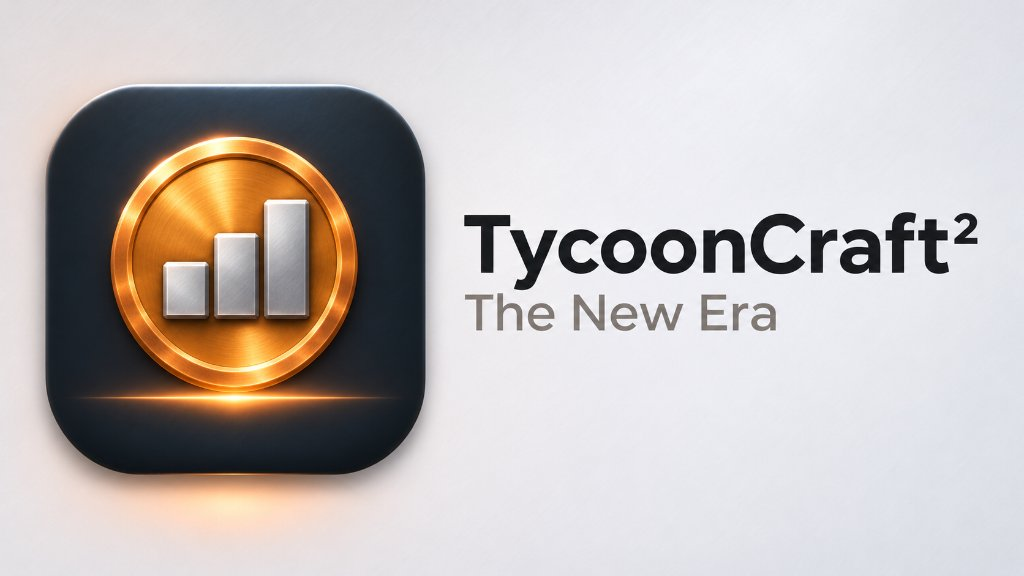
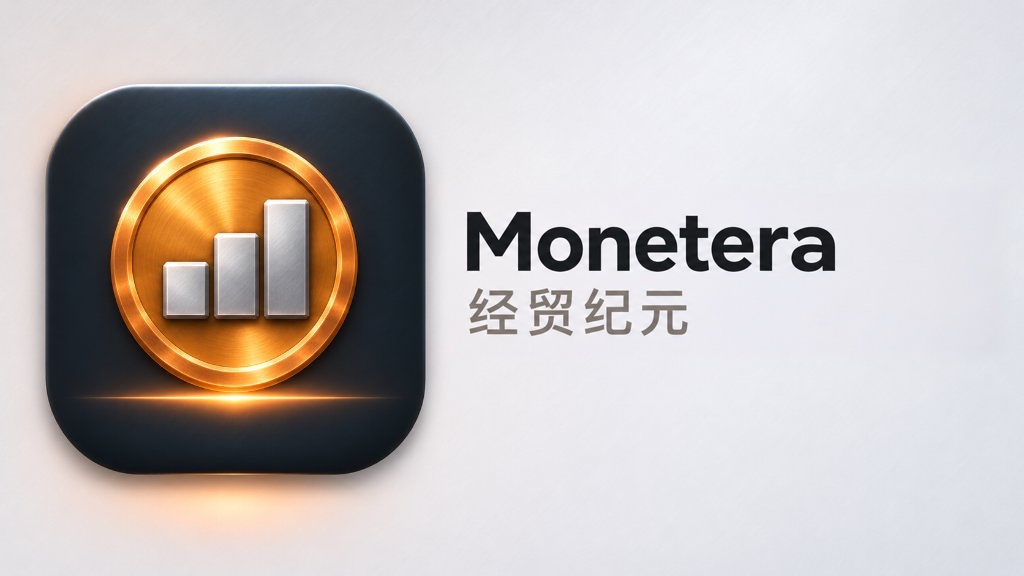
docs: update Monetera cover and README branding

Changed region(s): [[0.4375, 0.3438, 0.9688, 0.5938]]

diff --git a/README.md b/README.md
@@ -6,7 +6,7 @@
 
 经贸纪元（`mnera`）是一个面向 Minecraft 的商业经营与宏观经济模组。模组把金属铸币与银行、村庄大宗贸易、宏观物价波动以及村庄自动扩建串成一条完整的经营线，在纯原版环境中就能独立游玩，不需要任何前置模组。
 
-如果存档里同时安装了 [机电纪元（`mhera`）](https://github.com/spectrum527/Machinera) 或 [航运纪元（`trera`）](https://github.com/spectrum527/Transitera)，联动功能会自动启用：工业铸币机接入 EU 电网并支持 MHERA 升级，`1x` 货币自动统一为 `mhera:coin`，村庄贸易池加入合金、铱碎片和 MHERA 农林特产，合作枢纽也兼容 TRERA 的区块加载升级与自动货运。
+如果存档里同时安装了 [机电纪元（`mhera`）](https://github.com/spectrum527/Machinera) 或 [物流纪元（`trera`）](https://github.com/spectrum527/Transitera)，联动功能会自动启用：工业铸币机接入 EU 电网并支持 MHERA 升级，`1x` 货币自动统一为 `mhera:coin`，村庄贸易池加入合金、铱碎片和 MHERA 农林特产，合作枢纽也兼容 TRERA 的区块加载升级与自动货运。
 
 ## 下载与安装
 
@@ -25,7 +25,7 @@
 
 所有联动模组都按需安装，未安装时自动跳过，不会影响启动。
 
-- **工业与物流**：[机电纪元（`mhera` v2.0.0+）](https://github.com/spectrum527/Machinera)、[绿能纪元（`ecera`）](https://github.com/Alexme9125/Ecolera)、[航运纪元（`trera` v2.0.0+）](https://github.com/spectrum527/Transitera)
+- **工业与物流**：[机电纪元（`mhera` v2.0.0+）](https://github.com/spectrum527/Machinera)、[环保纪元（`ecera`）](https://github.com/Alexme9125/Ecolera)、[物流纪元（`trera` v2.0.0+）](https://github.com/spectrum527/Transitera)
 - **季节与农业**：静谧四季（Serene Seasons）、节气（Ecliptic Seasons）、农夫乐事（Farmer's Delight）、森罗物语：厨房（Kaleidoscope Cookery）
 - **界面与配方查询**：The One Probe、Jade、WTHIT、JEI、EMI
 

diff --git a/README.en.md b/README.en.md
@@ -1,8 +1,8 @@
-<h1><img src="assets/brand/icon.jpg" width="56" height="56" align="absmiddle" alt=""> Monetera (<code>tyc2</code>)</h1>
+<h1><img src="assets/brand/icon.jpg" width="56" height="56" align="absmiddle" alt=""> Monetera (经贸纪元)</h1>
 
 [简体中文](README.md) · **English**
 
-![Monetera project cover](assets/brand/cover.jpg)
+![Monetera (经贸纪元) project cover](assets/brand/cover.jpg)
 
 Monetera (`mnera`) is a Minecraft mod built around currency minting, personal and company banking, village trade hubs, dynamic macro prices, and automated village expansion. It runs standalone in plain Vanilla Minecraft with no required dependencies.
 
